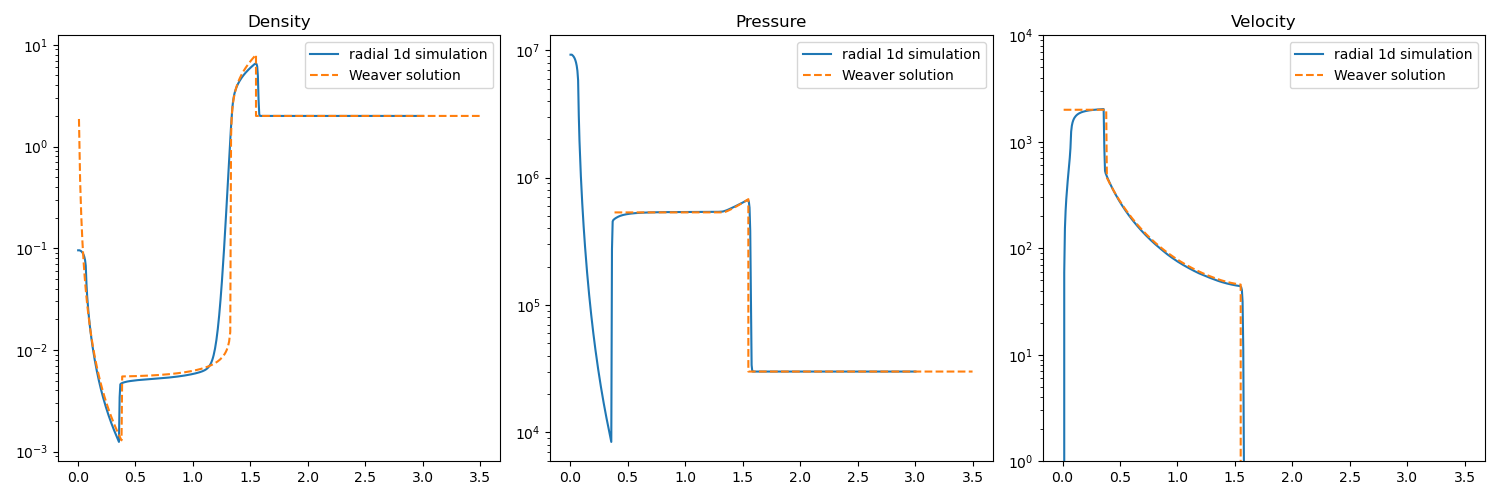
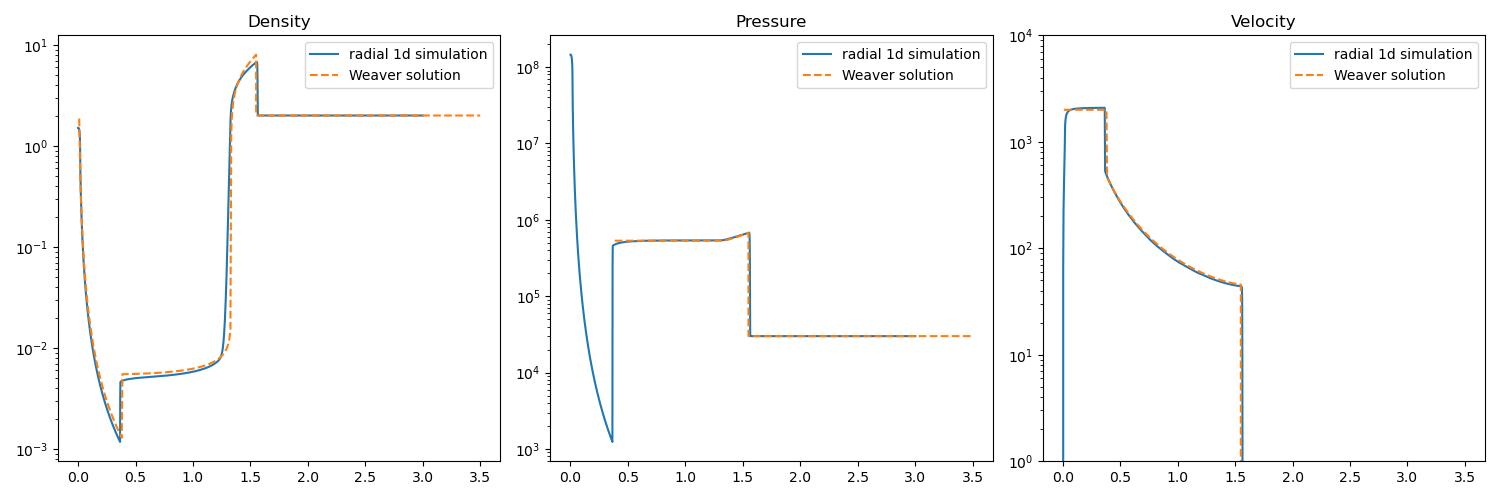
profiling

diff --git a/stellar_wind.py b/stellar_wind.py
@@ -4,6 +4,8 @@
 import jax
 import jax.numpy as jnp
 
+from timeit import default_timer as timer
+
 # plotting
 import matplotlib.pyplot as plt
 
@@ -46,7 +48,7 @@ code_units = CodeUnits(code_length, code_mass, code_velocity)
 # spatial domain
 alpha = SPHERICAL
 L = 1.0
-N_grid = 4000
+N_grid = 2000
 dx = L / N_grid
 r = jnp.linspace(dx/2, L + dx / 2, N_grid)
 
@@ -95,7 +97,14 @@ wind_params = WindParams(wind_mass_loss_rate = wind_mass_loss_rate.to(code_units
 params = SimulationParams(C_cfl = C_CFL, dt_max = dt_max, dx = dx, gamma = gamma, t_end = t_end, wind_params=wind_params)
 
 # run the simulation
+
+start = timer()
 final_state = time_integration(initial_state, config, params, helper_data)
+end = timer()
+
+print(f"Simulation took {end - start} seconds")
+
+
 rho, vel, p = final_state
 internal_energy = p / ((gamma - 1) * rho)
 
